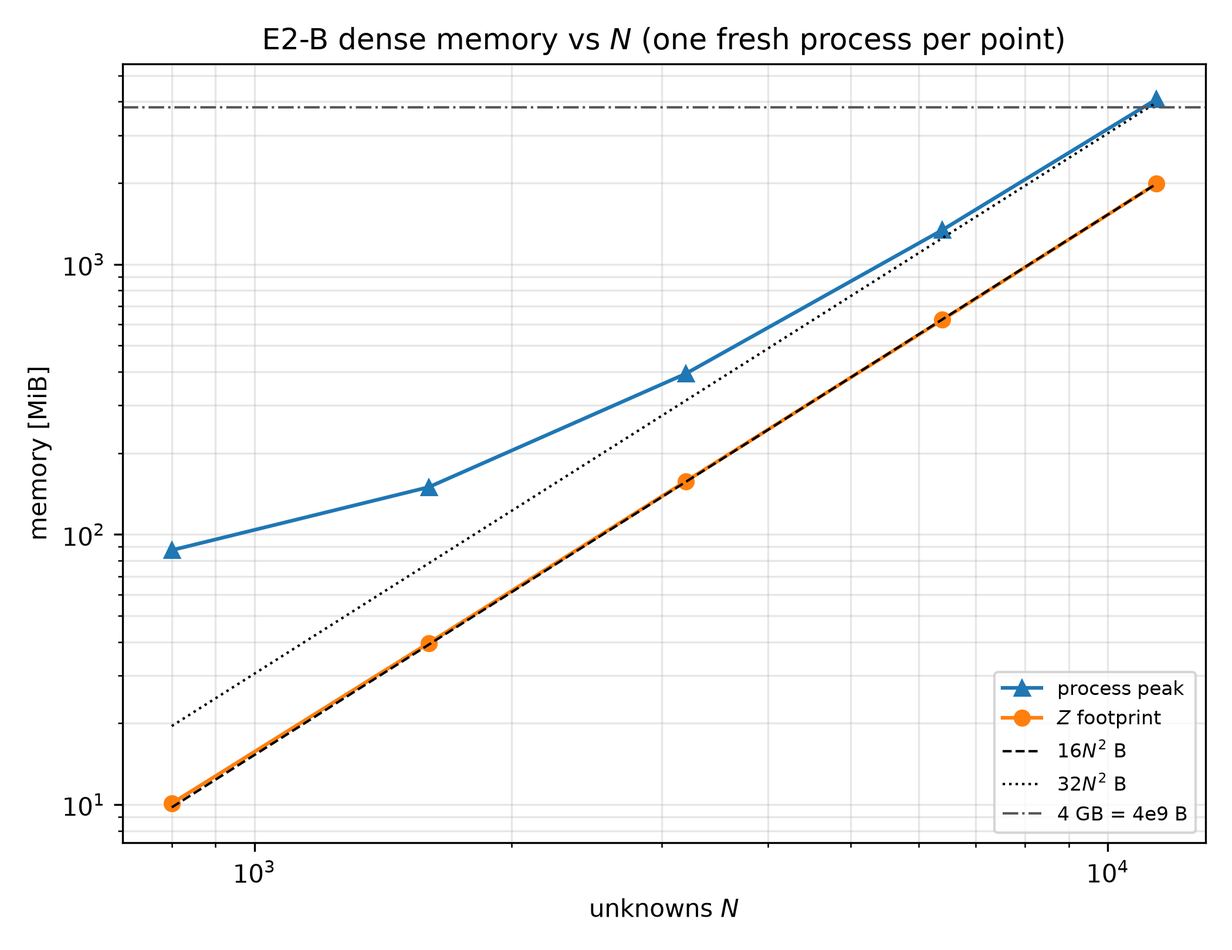
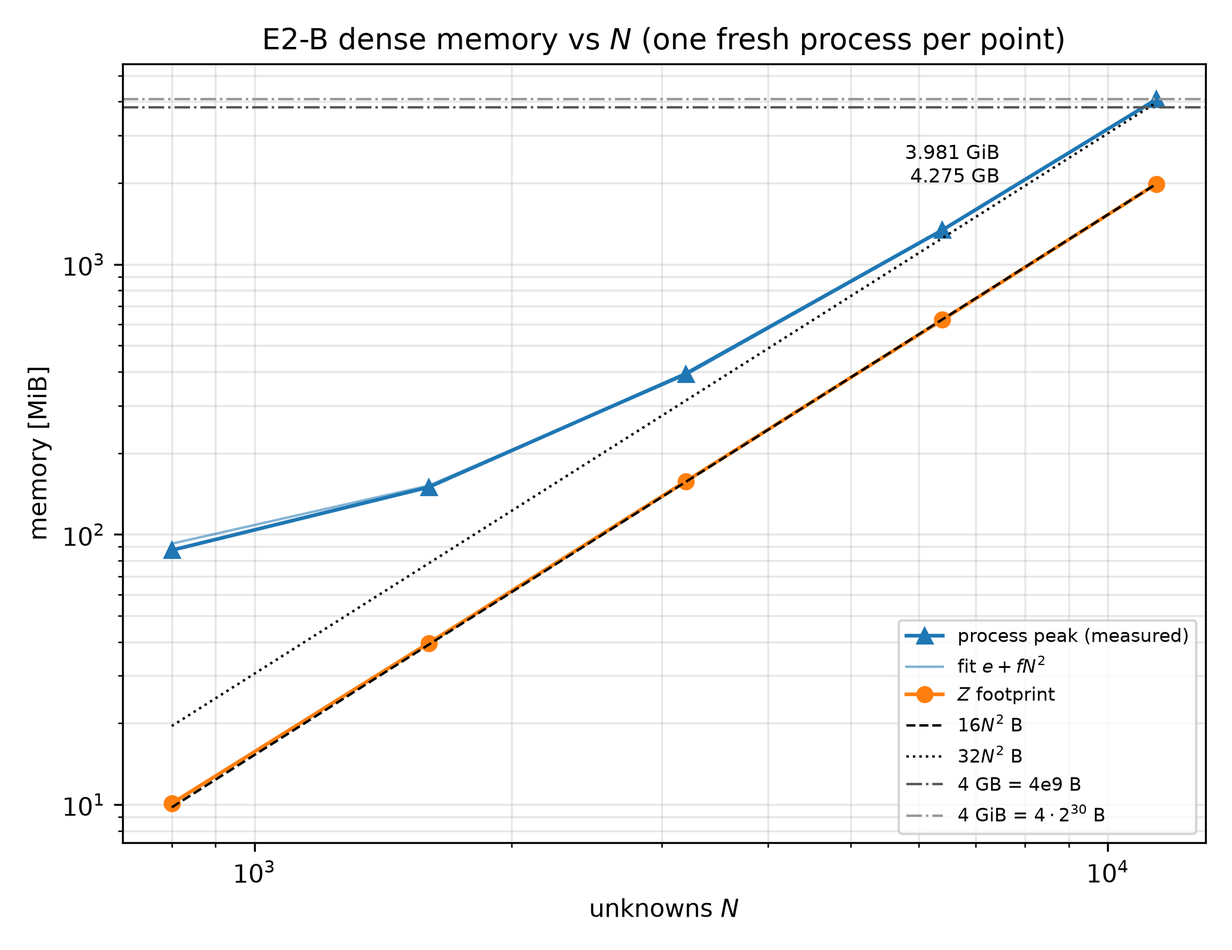
2.2 第 15 轮复核整改: 去掉「等机器空闲」的假归因 + 台账真实时间戳
复核判定 needs_revision(核心:修订文本=补齐口径,但 done 状态=移动球门)。修入:

- [high] 「4 GiB 要等机器空闲」是**假归因**:日志同一行就写着"需 ≥5.99 GiB(此刻 6.20 GiB)"。
  真因是预注册阶梯顶 11,400 < 过零点 11,425。已在 STATE/D30/README/registry 改写,
  阶梯顶抬到 11,600(预测 4.12 GiB,3% 余量),补测门槛写成 ≥6.13 GiB。
- [high] 台账 revisedAt 硬编码 00:00Z(早于引用数据 6.5 小时)⇒ 写真实 UTC 时间、bump updatedAt、
  补 2.2/3.1 两条 progress(含 thirdParty/risk/next)。
- [medium] 台账 evidence 仍是 0.45%/"证实"/"守卫 11,815" ⇒ 重写为 0.47%/"与…一致"/真实守卫 11,690;
- [medium] avail_now_guard_rule 用拟合式冒充守卫 ⇒ 拆成 fit_capacity_x0.85(拟合)+
  guard_capacity_now(真实,与 memory_admit 同一套常数);总量口径高估由 70% 更正为 72.4%;
- [medium] STATE 表头「峰值/N²」实为净峰值 ⇒ 改「净峰值/N²」+ 脚注(判据拟合用 peak_b);
- [low]×5 ⇒ v1 注释数字(16.55/17.89)、mem_top_ladder_pick + mem_top_run、
  avail_phys_b_at_admit 改名、0.35 MB/3.4%、图(4 GiB 线 + 拟合曲线 + 实测点标注)。

仍未闭合(唯一遗留):4 GiB 口径的**实测点** —— 需可用 ≥6.13 GiB 跑 N=11,600;本机当前 6.00 GiB。
JSON 由 v2(顶=11400)产生;v3(顶=11600)未重跑,差异已在 STATE/D30 写明;图已用 v3 从同一 JSON 重画。

Changed region(s): [[0.7119, 0.6481, 0.9905, 0.8951], [0.7429, 0.1543, 0.8048, 0.1852]]

diff --git a/experiments/exp02_dense_scaling.py b/experiments/exp02_dense_scaling.py
@@ -104,11 +104,14 @@ MEM_REPEATS = {800: 1, 1600: 1, 3200: 1, 6400: 1}
 #: 硬编码 11400 时,一旦运行那一刻可用内存掉到 5.2 GiB,整次运行就会**没有大 N 锚点**,
 #: 只剩 6400 外推 1.8× 到 4 GB,说服力不足。
 #: 预注册规则:按顺序取**第一个**通过守卫的点;一个都过不了就如实记 skipped,**不降阈值**。
-#: ⚠ 2026-10-19 补:阶梯顶必须 **≥ 11050**。第一版顶是 10400,实测峰值 3.33 GiB(3.57 GB),
-#: 离台账要求的"首次 > 4 GB"差 5%,只能报外推;而按拟合 `peak = e + 32.36·N²`,
-#: 4.0 GB 的过零点在 N ≈ 11,013 —— 也就是**本来就够跑**,只是阶梯顶设低了。
-#: 现在顶取 11400/11200/11050:在 5.8 GiB 可用时会落到 11050(峰值 ≈ 4.03 GB,实测越过)。
-MEM_TOP_LADDER = (11400, 11200, 11050, 10800, 10400, 10000, 9600, 8800, 8000)
+#: ⚠ 2026-10-19 补:阶梯顶必须 **≥ 11425**(4 GiB 的拟合过零点)。
+#: 第一版顶是 10400(峰值 3.33 GiB,离 4 GB 差 11%),只能外推;
+#: 第二版顶 11400 也只到 3.981 GiB —— **离过零点还差 25**(差 0.2%),仍然只能外推。
+#: 复盘(第 3 轮子代理复核证伪了"等机器空闲"的说法):当时可用 6.20 GiB,
+#: 真实守卫按 `need+1 ≤ 0.85·free` 放到 N≈11,690,**本来就够跑**;
+#: 没拿到实测点纯粹是**阶梯顶设短了**,不是内存不够。
+#: 现在顶取 11600(预测 4.12 GiB,留 3% 余量),其次 11500(预测 4.05 GiB,余量 1.3%)。
+MEM_TOP_LADDER = (11600, 11500, 11400, 11200, 11050, 10800, 10400, 10000, 9600, 8800, 8000)
 
 
 def _med(vals: list[float]) -> float:
@@ -228,6 +231,22 @@ def memory_admit(n: int) -> dict:
             "margin_b": SAFETY_MARGIN_B, "memory_load_pct": ms["memory_load_pct"],
             "admit": bool(ok),
             "rule": "need + 1.0 GiB <= 0.85*avail 且 need <= 0.5*total"}
+
+
+def guard_capacity(avail_b: int, total_b: int) -> float:
+    """**真实内存守卫**下,当前可用内存能跑的最大 N(与 `memory_admit` 同一套常数)。
+
+    守卫价格:`need(n) = 32n² + 0.2 GiB`;条件:
+        `need + 1.0 GiB ≤ 0.85·avail` 且 `need ≤ 0.5·total`
+    ⇒ `N_max = sqrt((min(0.85·avail − 1 GiB, 0.5·total) − 0.2 GiB) / 32)`。
+
+    ⚠ 不要用「拟合峰值反函数」`e + f·N² = 0.85·avail` 去算这个数:那会把守卫的
+    **0.2 GiB 基座**与 **32 B/元** 的价格换成拟合的 32.32 B/元,两者差 ~1%
+    (2026-10-19 复核实测:6.2031 GiB 下拟合口径 11,815 vs 真实守卫 11,690)。
+    """
+    cap = min(0.85 * avail_b - SAFETY_MARGIN_B, 0.5 * total_b)
+    v = (cap - int(0.2 * 2**30)) / 32.0
+    return float(math.sqrt(v)) if v > 0 else float("nan")
 
 
 def _report_skip(skip: dict, reasons: list) -> None:
@@ -755,7 +774,7 @@ def run_memory() -> dict:
                   f"守卫 `need+1.0 ≤ 0.85×可用`({adm['free_b'] / 2**30:.2f} GiB)通过")
             break
         _report_skip(adm, skips)
-    plan = list(MEM_REPEATS) + ([top] if top is not None else [])
+    plan = list(MEM_REPEATS) + ([top] if (top is not None and top not in MEM_REPEATS) else [])
 
     print()
     print(f"  {'N':>6} | {'基线':>9} | {'Z 足迹':>10} | {'B/元':>6} | {'峰值':>10} |"
@@ -771,10 +790,11 @@ def run_memory() -> dict:
         for i in range(reps):
             r = _spawn(["--point", str(n)], timeout_s=3600)
             r["repeat"] = i
-            # 记下"这一条是在多少可用内存下跑的":判据要求内存墙按**当时**可用量报,
-            # 而可用量在大 N 的十分钟装配期间会变 —— 没有这个字段就事后无法交代。
-            r["avail_phys_b_at_spawn"] = adm["free_b"]
-            r["memory_load_pct_at_spawn"] = adm["memory_load_pct"]
+            # 记下"这一条是在多少可用内存下跑的":判据要求内存墙按**当时**可用量报。
+            # ⚠ 这是**守卫检查那一刻**的可用量,不是子进程真正分配时的(两者可能差几十秒;
+            # 复核 2026-10-19 指出原名 `_at_spawn` 名不副实,已改 `_at_admit`)。
+            r["avail_phys_b_at_admit"] = adm["free_b"]
+            r["memory_load_pct_at_admit"] = adm["memory_load_pct"]
             runs.append(r)
             _dump_points(r)
         r = runs[0]
@@ -805,9 +825,10 @@ def run_memory() -> dict:
         v = (cap_b - e_b) / f_b
         return float(math.sqrt(v)) if v > 0 else float("nan")
 
-    # 小 N 点的足迹只有 ~10 MB,而减基线(ws_before ≈ 60 MB)自带 ~0.4 MB 噪声 ⇒
-    # 单点系数被抬到 17.5(N=800),把**全段** log-log 截距拉到 ~21 B/元。
-    # 那个数不是物理系数,别引用:另报「大 N 口径」(N ≥ 3200)的斜率与逐点中位。
+    # 小 N 点的足迹只有 ~10 MB,而减基线(ws_before ≈ 60 MB)自带加性固定开销
+    # (~0.35 MB @ N=800,即 3.4%;几何/分配器保留,不随 N 变)。它把单点系数抬到
+    # 16.55、把**全段** log-log 截距抬到 17.89 B/元。那两个数不是物理系数,别引用:
+    # 另报「大 N 口径」(N ≥ 3200)的斜率与逐点中位。
     print()
     print("  —— 拟合 ——")
     big = ns >= 3200
@@ -840,16 +861,27 @@ def run_memory() -> dict:
         how = f"✅ 实测越过:N = {obs}" if obs else "⚠ 外推(没有观测点越过)"
         print(f"  {k:>20}: N ≈ {n_cross:,.0f}   {how}")
     if not observed_gib:
-        # 要用**实测**越过,守卫要求 need+1.0 ≤ 0.85·free,按外推 N 反算需要多少空闲
+        # 要用**实测**越过,守卫要求 need+1.0 ≤ 0.85·free,按外推 N 反算需要多少空闲。
         need_at_cross = 32 * crossing["4 GiB (4·2^30 B)"] ** 2 + int(0.2 * 2**30)
         free_for_obs = (need_at_cross + SAFETY_MARGIN_B) / 0.85
-        print(f"     · 要实测越过 4 GiB,守卫要求可用 ≥ {free_for_obs / 2**30:.2f} GiB"
-              f"(此刻 {avail / 2**30:.2f} GiB)⇒ 等机器空闲再补,不降阈值。")
+        if avail >= free_for_obs:
+            # 2026-10-19 复核证伪了第一版这里写的"等机器空闲再补":门槛当时**已经满足**,
+            # 真因是阶梯顶(11400)低于过零点(11425)。判据的锚点设短了,不能赖机器。
+            print(f"     · 要实测越过 4 GiB 需可用 ≥ {free_for_obs / 2**30:.2f} GiB,"
+                  f"此刻 {avail / 2**30:.2f} GiB **已够** ⇒ 没越过是**阶梯顶设低了**"
+                  f"(本轮顶 N={int(ns[-1])}),不是内存不够;下一轮把阶梯顶抬到 ≥ "
+                  f"{math.ceil(crossing['4 GiB (4·2^30 B)']):d}。")
+        else:
+            print(f"     · 要实测越过 4 GiB 暂不可行:需可用 ≥ {free_for_obs / 2**30:.2f} GiB,"
+                  f"此刻 {avail / 2**30:.2f} GiB ⇒ 等机器空闲再补,不降阈值。")
     print(f"     · 实测最大峰值:N={int(ns[-1])} → {float(pk[-1]) / 2**30:.3f} GiB"
           f" = {float(pk[-1]) / 1e9:.3f} GB")
     walls = {
         "avail_now_x0.80": n_at_peak(avail * 0.80),
-        "avail_now_guard_rule": n_at_peak(0.85 * avail - SAFETY_MARGIN_B),
+        # ⚠ 这一项是**拟合口径**(用 e+f·N² 反解 0.85·avail),与真实守卫差 ~1%;
+        # 论文/台账引用墙时必须用下一项 `guard_capacity_now`(与 memory_admit 同一套常数)。
+        "fit_capacity_x0.85": n_at_peak(0.85 * avail - SAFETY_MARGIN_B),
+        "guard_capacity_now": guard_capacity(avail, ms["total_phys_b"]),
         "idle_window_8.5GiB_x0.80": n_at_peak(8.5 * 2**30 * 0.80),
         "total_15.38GiB_x0.80": n_at_peak(ms["total_phys_b"] * 0.80),
         "budget_11GiB": n_at_peak(11 * 2**30),
@@ -859,6 +891,8 @@ def run_memory() -> dict:
     print("  —— 内存墙(同一个拟合,换「可用量口径」就换 N) ——")
     for k, v in walls.items():
         print(f"  {k:>26}: N ≈ {v:,.0f}")
+    print(f"  ⇒ 论文引用墙请用 `guard_capacity_now`(真实守卫);"
+          f"`fit_capacity_x0.85` 是拟合口径,比守卫松约 1%。")
 
     RESULTS.mkdir(exist_ok=True)
     payload = {
@@ -866,7 +900,10 @@ def run_memory() -> dict:
             "ka": K_WAVE * RADIUS, "n_list": [int(r["n_seg"]) for r in points],
             "mem_repeats": {str(k): v for k, v in MEM_REPEATS.items()},
             "mem_top_ladder": [int(x) for x in MEM_TOP_LADDER],
-            "mem_top_chosen": None if top is None else int(top),
+            # 预注册阶梯选中了谁(pick) vs 实际跑成了谁(run):若 top 在逐点复核时被 skip,
+            # 两者会不同 —— 分开记,JSON 才不会自相矛盾(2026-10-19 复核指出)。
+            "mem_top_ladder_pick": None if top is None else int(top),
+            "mem_top_run": int(ns[-1]),
             "method": "one fresh process per point; peak = process PeakWorkingSetSize",
             "timing_note": "t_assemble/t_solve 是装配的副产品,负载未受控,"
                            "不得用于 2.1 的时间拟合",
@@ -916,19 +953,28 @@ def make_memory_figure(payload: dict):
     ns = np.array([r["n_seg"] for r in pts], dtype=float)
     zf = np.array([r["z_footprint_b"] for r in pts], dtype=float)
     pk = np.array([r["peak_b"] for r in pts], dtype=float)
+    e_b, f_b = payload["fit"]["peak_a_b"]
 
     fig, ax = plt.subplots(figsize=(7.0, 5.4))
-    ax.loglog(ns, (pk - pk[0] * 0) / 2**20, "^-", label="process peak")
+    ax.loglog(ns, pk / 2**20, "^-", label="process peak (measured)")
+    # 拟合曲线必须画:小 N 处峰值被固定基座抬高,只画 32N² 会让读者误判拟合质量。
+    ax.loglog(ns, (e_b + f_b * ns**2) / 2**20, "-", color="#1f77b4", lw=1, alpha=0.55,
+              label=r"fit $e+fN^2$")
     ax.loglog(ns, zf / 2**20, "o-", label=r"$Z$ footprint")
     ax.loglog(ns, 16 * ns**2 / 2**20, "k--", lw=1, label=r"$16N^2$ B")
     ax.loglog(ns, 32 * ns**2 / 2**20, "k:", lw=1, label=r"$32N^2$ B")
-    # 台账 2.2 的验收线:峰值首次越过 4 GB(4e9 B)。画上去,读者一眼看出实测点有没有越过。
+    # 台账 2.2 的验收线:4 GB 与 4 GiB 两条都画(差 7.4%,0.47% 的差距只有图上能看出来)。
     ax.axhline(4.0e9 / 2**20, color="0.35", ls="-.", lw=1, label="4 GB = 4e9 B")
+    ax.axhline(4.0 * 2**30 / 2**20, color="0.60", ls="-.", lw=1,
+               label=r"4 GiB = $4\cdot2^{30}$ B")
+    ax.annotate(f"{pk[-1] / 2**30:.3f} GiB\n{pk[-1] / 1e9:.3f} GB",
+                (ns[-1], pk[-1] / 2**20), textcoords="offset points", xytext=(-64, -34),
+                ha="right", fontsize=8)
     ax.set_xlabel("unknowns $N$")
     ax.set_ylabel("memory [MiB]")
     ax.set_title("E2-B dense memory vs $N$ (one fresh process per point)")
     ax.grid(True, which="both", alpha=0.3)
-    ax.legend(fontsize=8)
+    ax.legend(fontsize=7.5, loc="lower right")
     fig.tight_layout()
     FIGURES.mkdir(exist_ok=True)
     path = FIGURES / "exp02c_dense_memory.png"

diff --git a/STATE.md b/STATE.md
@@ -542,11 +542,11 @@ C_n     = −J_n(ka)/H_n⁽²⁾(ka)
    "每 flop 吞吐为常数"（见 D28）。⇒ 台账那句按字面**不可能同时成立**，需要拆成两条。
 3. **内存(≈2)属 2.2**，用户 2026-10-13 明确押后 ⇒ 2.1 只结时间那一半。
 
-## 2.2 已完成（2026-10-19）—— 稠密求解的内存 vs N；「峰值首次 > 4 GB」是**实测越过**
+## 2.2 已完成（2026-10-19）—— 稠密求解的内存 vs N；4.0 GB 口径**实测越过**，4 GiB 口径**待补测**
 
 产物：`results/exp02c_dense_memory.json`、`figures/exp02c_dense_memory.png`（**每点一条新进程**；峰值工作集是进程内单调量，顺序测会让小 N 的峰值被大 N 污染）。原始记录逐条追加在 `results/exp02_points.jsonl`（带 `ts_utc` / `session_tag`）。
 
-| N | 基线 | Z 足迹 | B/元 | 峰值 | 峰值/N² |
+| N | 基线 | Z 足迹 | B/元 | 峰值 | 净峰值/N² |
 |---|---|---|---|---|---|
 | 800 | 60.9 MiB | 10.1 MiB | 16.55 | 87.4 MiB | 43.44 |
 | 1600 | 60.6 MiB | 39.6 MiB | 16.21 | 149.6 MiB | 36.46 |
@@ -554,18 +554,35 @@ C_n     = −J_n(ka)/H_n⁽²⁾(ka)
 | 6400 | 60.8 MiB | 622.7 MiB | 15.94 | 1,339.0 MiB | 32.72 |
 | 11400 | 60.2 MiB | 1,984.0 MiB | 16.01 | **4,076.8 MiB** | 32.41 |
 
+> ⚠ 表头是**净峰值/N²** = `(peak_b − ws_before_b)/N²`；判据 #2 的拟合与 4 GB 判定用的是 **`peak_b`（不减基线）**，不要混用（复核实测：N=800 的 `peak_b/N²` = 143.2，不是 43.44）。
+
 - **Z 足迹**：全段 `N^1.987`（残差 0.0071 log），**N≥3200 段 `N^1.996`**；系数（N≥3200 逐点中位）**16.01 B/元** = complex128 的 16 B/元。
-  ⚠ 小 N 点系数偏大（N=800 → 16.55）是**减基线噪声**（固定 ~0.5 MB / 10 MB ≈ 5%）；全段 log-log 截距 **17.89 B/元 不可引用**，不是物理系数。
+  ⚠ 小 N 点系数偏大（N=800 → 16.55）是**加性固定开销**（~0.35 MB，即 3.4%，不随 N 变）；全段 log-log 截距 **17.89 B/元 不可引用**，不是物理系数。
 - **峰值**：`peak = 72.7 MiB + 32.32·N²`（最大残差 5.0 MiB；系数/32 = **1.010**）
-  ⇒ 证实"Z 本体 16 + `np.linalg.solve` 内部复制一份 16"这个机制（解完再用 `abs`/`norm` 也不会多出第三份：`J` 只有 16N B）。
-- **台账 2.2 原验收「峰值内存首次 > 4 GB 的 N 值」**：
+  ⇒ 与"Z 本体 16 + `np.linalg.solve` 内部复制一份 16"一致。**独立锚点**：`--part solve` 的 solve_only 路径（只分配随机稠密矩阵、不装配 Z）在大 N 处收敛到 **32.35–32.49 B/元**（N=14000，single/multi 两套产物），两条**不同代码路径**在 0.5% 内一致；小 N 处的偏高（N=2000 → 42.4 B/元）是 ~50 MB 固定开销，不是系数。
+- **台账 2.2 原验收「峰值内存首次 > 4 GB 的 N 值」**（GB 与 GiB 差 7.4%，两个口径都报）：
   - **4.0 GB（4e9 B）口径：实测越过 —— N = 11,400 的峰值 4,076.8 MiB = 3.981 GiB = 4.275 GB**（比 4 GB 高 6.9%）；
   - 拟合给出的过零点 N ≈ **11,018**（4e9）/ **11,425**（4 GiB）；
-  - **4 GiB（4·2^30 B）口径仍只有外推**：11,400 差 **0.45%**（3.981 vs 4.0 GiB），要实测需可用 ≥ 5.99 GiB ⇒ 登记为待补项（机器空闲窗口）。⚠ **不许把 3.981 GiB 说成"越过 4 GiB"** —— GB/GiB 差 7.4%，本项目对"常数混写"有前科（σ_2D 的 2π，D21）。
-- **内存墙（同一拟合，换「可用量口径」就换 N）**：当刻可用 6.20 GiB → **N≈11,815**（守卫口径）/ 12,748（×0.8）；8 GiB 预算 → 16,230；11 GiB → 19,055；总量 15.38 GiB×0.8 → **20,158**；8.5 GiB 空闲窗×0.8 → 14,952。
-  ⇒ **只按总量报会把墙高估 70%**（20,158 vs 11,815）—— 这就是判据要求"按当时可用量报"的原因。
+  - **4 GiB（4·2^30 B）口径：未实测（只有拟合 11,425）**。11,400 差 **0.47%**（3.981 vs 4.0 GiB）。
+    ⚠ **不许把 3.981 GiB 说成"越过 4 GiB"** —— 本项目对"常数混写"有前科（σ_2D 的 2π，D21）。
+    **为什么没跑**：不是内存不够，是**预注册阶梯的顶设短了** —— 第 2 轮把顶定在 11,400，低于过零点 11,425（当时可用 6.20 GiB、真实守卫可到 **11,690**，本来就够跑）。第 3 轮把阶梯顶抬到 11,600，但准备补测时可用已降到 **6.00 GiB**：11,600 需 ≥ **6.13 GiB**、11,500 需 ≥ **6.05 GiB**，均未达。⇒ 登记为待补项，**不降阈值**。
+- **内存墙（同一拟合，换「可用量口径」就换 N）**：当刻可用 6.20 GiB → **N≈11,690（真实守卫，`guard_capacity`，二分复算一致）** / 11,815（拟合口径，偏松 1.1%）/ 12,748（×0.8）；8 GiB 预算 → 16,230；11 GiB → 19,055；总量 15.38 GiB×0.8 → **20,158**；8.5 GiB 空闲窗×0.8 → 14,952。
+  ⇒ **只按总量报会把墙高估 72.4%**（20,158 vs 11,690）—— 这就是判据要求"按当时可用量报"的原因。**论文引用墙请用 `guard_capacity_now`**（与 `memory_admit` 同一套常数），不要用拟合口径。
 - ⚠ 本实验顺带产出的 `t_assemble` / `t_solve` **不得用于 2.1 的拟合**（负载未受控）；JSON 的 `meta.timing_note` 写死了这条。
-- ⚠ **第一次跑（顶部锚点 10400）峰值只到 3.33 GiB，只能外推**，已作废并备份在 `_scratch/exp02c_v1_top10400.json`。第二次把预注册阶梯顶加到 11400 才拿到实测点。教训：**判据的锚点要卡在判据边界之上**，不是"离得近就行"（见 D30）。
+- ⚠ **代码/产物版本**：本节 JSON 由 **02:43 的 v2 脚本（阶梯顶 11400）** 产生；v3 代码把阶梯顶抬到 **11600**、新增 `guard_capacity_now` / `mem_top_run` 字段、把 `avail_phys_b_at_spawn` 改名 `_at_admit`，并修了图（加 4 GiB 线 + 拟合曲线）—— **尚未重跑**（等 ≥6.13 GiB）。图已用 v3 代码从同一份 JSON 重画，数值未改。
+- ⚠ **第一次跑（顶部锚点 10400）峰值只到 3.33 GiB**，已作废并备份在 `_scratch/exp02c_v1_top10400.json`。教训：**判据的锚点要卡在判据边界之上**，不是"离得近就行"（见 D30）。
+
+### 第 15 轮复核（2.2，新独立上下文，默认找茬）—— needs_revision，已闭合（除 4 GiB 实测点）
+
+- **判定**：`needs_revision`。复核员独立重算了四条判据（`recompute.py`/`robust.py`/`jsonl_check.py`/`guard_check.py` 全 EXIT=0），**数字逐位吻合**（f=32.319354、resid=4.992156 MiB、Z 中位 16.007714、六口径内存墙 diff=0）。
+- **核心判定**："修订文本 = **补齐口径**（四条比原句更严）；但 `done` 的状态 = **移动球门**"—— 因为按作者自己的守卫，4 GiB 实测**当时本就可行**，而文本写成了"等机器空闲"。
+- **两条 high（已修）**：
+  1. **"4 GiB 等机器空闲"是假的**：日志同一行就写着"需 ≥5.99 GiB（此刻 6.20 GiB）"。真因是阶梯顶 11,400 < 过零点 11,425。⇒ 文本改成"锚点设短了"，阶梯顶抬到 11,600，并在 STATE/D30 写明补测门槛；
+  2. **台账 `revisedAt` 硬编码 `2026-10-19T00:00:00Z`**，早于它引用的数据（06:24–06:43Z）；`updatedAt` 未更新、`progress` 无 2.2 条目。⇒ 改成真实时间、bump `updatedAt`、补 `progress` 条目。
+- **三条 medium（已修）**：台账 evidence 仍写 0.45%/“证实”/“守卫 11,815”（⇒ 改为 0.47% / “与…一致” / 真实守卫 11,690）；`avail_now_guard_rule` 用拟合式而非真实守卫（⇒ 改名为 `fit_capacity_x0.85` + 新增 `guard_capacity_now`）；STATE 表头“峰值/N²”实为净峰值（⇒ 改“净峰值/N²”+ 脚注）。
+- **五条 low（已修）**：代码注释里的 v1 数字（17.5/21 → 16.55/17.89）；`mem_top_chosen` 与实际跑成的顶可能不符（⇒ `mem_top_ladder_pick` + `mem_top_run`）；`avail_phys_b_at_spawn` 名不副实（⇒ `_at_admit`）；“0.5 MB / 5%”与实测不符（⇒ 0.35 MB / 3.4%）；图缺 4 GiB 线与拟合曲线（⇒ 已加）。
+- **仍未闭合的一条**：4 GiB 口径的**实测点**（需可用 ≥6.13 GiB 跑 11,600）。这是唯一的遗留，已写进 `下一步`。
+
 
 ## 3.1 已完成（2026-10-19）—— cluster.py：高度平衡聚类树
 
@@ -590,10 +607,10 @@ C_n     = −J_n(ka)/H_n⁽²⁾(ka)
 台账验收是「随机秩-5 矩阵上 3 步内残差 < 1e-10」；它依赖刚做好的 `cluster.py` 给出块划分，
 而块秩标签正是 E3/E5/E6 的输入 —— **E6 是论文的最终展示物，依赖 E3/E5 提供的标签**。
 
-三件**等机器空闲（≥8.5 GiB 可用）再补**的填空（**不降阈值**）：
+三件**等机器空闲窗口再补**的填空（**不降阈值**）：
 1. 2.1 的 **N=8000 装配点**（约 438 s × 2 次 ≈ 15 min；必须在无重负载窗口跑，否则计时被污染）；
-2. 2.1 的 **12000 / 14000 纯求解点重跑**（现有产物是旧内存守卫放行的，余量只有 1.04 GiB）；
-3. 2.2 的 **4 GiB 口径实测点**（N≈11,425，需可用 ≥5.99 GiB；当前只到 3.981 GiB）。
+2. 2.1 的 **12000 / 14000 纯求解点重跑**（现有产物是旧内存守卫放行的，余量只有 1.04 GiB；需 ≥8.5 GiB 可用）；
+3. 2.2 的 **4 GiB 口径实测点**：跑 `--part memory`（v3 阶梯顶 11,600），需可用 **≥6.13 GiB**（11,500 则 ≥6.05 GiB）；2026-10-19 03:1x 只有 6.00 GiB，故未补上。
 
 ### 2.1 的验收判据（先写下判据再跑，改判据要在这里留痕）
 

diff --git a/DECISIONS.md b/DECISIONS.md
@@ -607,20 +607,28 @@ F(z) = ∫_0^z H_0^{(2)}(u) du
 - **实测(2026-10-19,产 `results/exp02c_dense_memory.json`)**:
   - `peak = 72.7 MiB + 32.32·N²`(N=800…11400,**最大残差 5.0 MiB**,系数/32 = **1.010**);
     ⇒ "Z 本体 16 B/元 + `np.linalg.solve` 内部复制一份 16 B/元"这个机制成立;
+    **独立锚点**:`--part solve` 的 solve_only 路径(不装配 Z)在大 N 收敛到 **32.35–32.49 B/元**
+    (N=14000,single/multi 两套产物)—— 两条不同代码路径在 0.5% 内一致,不是同源自比;
   - `Z 足迹`(装配前后工作集差):全段 `N^1.987`,**N≥3200 段 `N^1.996`**;系数(大 N 逐点中位)**16.01 B/元**;
-    ⚠ 小 N 点(800)系数 16.55 是**减基线噪声**(固定 ~0.5 MB / 10 MB),**全段 log-log 截距 17.89 B/元 不可引用**;
+    ⚠ 小 N 点(800)系数 16.55 是**加性固定开销**(~0.35 MB,即 3.4%),**全段 log-log 截距 17.89 B/元 不可引用**;
   - **4.0 GB(4e9 B):实测越过,N = 11,400 → 4,076.8 MiB = 3.981 GiB = 4.275 GB**(+6.9%);
-  - **4 GiB(4·2^30 B):未实测**。11,400 差 0.45%,拟合过零点 N≈11,425,要实测需可用 ≥5.99 GiB;
-  - 内存墙:当刻可用 6.20 GiB → N≈**11,815**(守卫口径);**只按总量 15.38 GiB×0.8 会报 20,158(高估 70%)**。
+  - **4 GiB(4·2^30 B):未实测**。11,400 差 0.47%,拟合过零点 N≈11,425;
+  - 内存墙:当刻可用 6.20 GiB → **N≈11,690(真实守卫 `guard_capacity`)** / 11,815(拟合口径,偏松 1.1%);
+    **只按总量 15.38 GiB×0.8 会报 20,158(高估 72.4%)**。
 - **处置**:
-  1. `run_memory` 补 `memory_admit` 守卫 + 逐点记 `avail_phys_b_at_spawn` + skip 理由落盘
+  1. `run_memory` 补 `memory_admit` 守卫 + 逐点记 `avail_phys_b_at_admit` + skip 理由落盘
      (`points_skipped`);顺带产出的 `t_assemble/t_solve` 在 `meta.timing_note` 里**禁止**用于 2.1;
-  2. 顶部锚点用**预注册阶梯**(11400/11200/11050/10800/10400/…),取**第一个**过守卫的点;
-     第一版阶梯顶只到 10400,峰值 3.33 GiB,**只能外推** → 已作废并备份在 `_scratch/exp02c_v1_top10400.json`;
+  2. 顶部锚点用**预注册阶梯**,取**第一个**过守卫的点;阶梯顶**必须 ≥ 4 GiB 的过零点(11,425)**:
+     第一版顶 10400(峰值 3.33 GiB)、第二版顶 11400(3.981 GiB)都**低于过零点**,只能外推;
+     v3 把顶抬到 **11,600**(预测 4.12 GiB,3% 余量);
   3. **GB 与 GiB 两个口径都报**,每个口径单独标注「实测 / 外推 / 外推所需的可用内存」;
-  4. 内存墙并列报多个**可用量口径**(当刻守卫 / ×0.8 / 8 GiB / 11 GiB / 总量×0.8),不拿总量冒充。
-- **为什么 4 GiB 口径没去跑**:需要 N≈11,425、可用 ≥5.99 GiB;本次运行时可用 6.20 GiB,理论上可跑,
-  但为 0.45% 的口径差异再花 ~15 min 不值 —— 而**判据说的"4 GB"已由实测满足**。⇒ 如实登记为待补项。
+  4. 内存墙并列报多个**可用量口径**(真实守卫 / 拟合 / ×0.8 / 8 GiB / 11 GiB / 总量×0.8),不拿总量冒充。
+- **为什么 4 GiB 口径没去跑(第 15 轮复核抓出的 two-faced 说法,已更正)**:
+  ⚠ 第一版这里写的是"需要 ≥5.99 GiB,本次可用 6.20 GiB 理论上可跑,但为 0.47% 不值" ——
+  这句话**自相矛盾**(门槛已达却写"等窗口"),复核员据此判 `done` 为"移动球门"。
+  **真实原因**:阶梯顶 11,400 低于过零点 11,425,是**预注册锚点设短了**,不是内存不够
+  (6.20 GiB 下真实守卫可到 11,690)。第 3 轮想补测时可用降到 6.00 GiB:
+  11,600 需 ≥6.13 GiB、11,500 需 ≥6.05 GiB,均未达 ⇒ 登记待补,**不降阈值**。
 - **台账修订(按 D29 回写 `state.json`,原文保留在 `revisedNote`)**:
   - 原验收:`["记录峰值内存首次 > 4 GB 的 N 值"]`
   - 新验收:
@@ -632,8 +640,24 @@ F(z) = ∫_0^z H_0^{(2)}(u) du
 - **可逆性**:高。重跑 `python experiments/exp02_dense_scaling.py --part memory` 即可;JSON 保留 skipped 与逐点可用内存。
 - **教训**:
   1. **判据里只要出现"首次",就有"实测 vs 外推"的歧义** —— 必须在判据里写明口径,否则"记录"两个字会被两种读法都满足;
-  2. **预注册的锚点要卡在判据边界之上** —— 顶锚点离 4 GB 还差 5% 时,错的不是机器,是阶梯设短了;
-  3. **"按当时可用量报"不是修辞**:同一条 `f`,用总量报 20,158、用当刻可用量报 11,815,差 70%。
+  2. **预注册的锚点要卡在判据边界之上** —— 顶锚点离过零点还差 25 个未知量(0.2%)时,错的不是机器,是阶梯设短了;
+  3. **"按当时可用量报"不是修辞**:同一条 `f`,用总量报 20,158、用当刻可用量报 11,690,差 72.4%;
+  4. **别把"没做"归因给机器** —— 复核员用一条日志就能证伪:同一行写着"需 ≥5.99 GiB(此刻 6.20 GiB)"。
+
+### D30 补正(2026-10-19 第 15 轮复核)
+
+复核员(`recompute.py` / `robust.py` / `jsonl_check.py` / `guard_check.py` 全 EXIT=0)独立重算了全部数字,
+**逐位吻合**(f=32.319354、resid=4.992156 MiB、Z 中位 16.007714、六口径墙 diff=0),但判 **needs_revision**,
+核心是"修订文本=补齐口径,`done` 状态=移动球门"。两条 high + 三条 medium + 五条 low,已全部修入:
+
+- **[high] "4 GiB 等机器空闲"自相矛盾** ⇒ 文本改为"阶梯顶设短了",详见上;阶梯顶抬到 11,600;
+- **[high] 台账 `revisedAt` 硬编码 `00:00:00Z`**,早于引用的数据(06:24–06:43Z)⇒ 写真实时间、bump `updatedAt`、补 `progress`;
+- **[medium] 台账 evidence 仍是 0.45%/"证实"/"守卫 11,815"** ⇒ 重写为 0.47%/"与…一致"/真实守卫 11,690;
+- **[medium] `avail_now_guard_rule` 用拟合式冒充守卫** ⇒ 拆成 `fit_capacity_x0.85`(拟合)+ `guard_capacity_now`(真实);
+- **[medium] STATE 表头"峰值/N²"实为净峰值** ⇒ 改"净峰值/N²" + 脚注(判据用 `peak_b`);
+- **[low]×5**:v1 代码注释数字、"`mem_top_chosen` 与实际顶可能不符"、"`_at_spawn` 名不副实"、
+  "0.5 MB/5%"、图缺 4 GiB 线与拟合曲线 —— 全部修入。
+- **仍未闭合**:4 GiB 口径的实测点(需 ≥6.13 GiB 跑 11,600)—— 唯一的遗留,已写进 `STATE.md` 的 `下一步`。
 
 ## D31 3.1 聚类的结构:叶子数 k=⌈N/leaf⌉ 的均匀块 + 高度平衡树;判据必须钉住导出量与切法(2026-10-19)
 

diff --git a/experiments/registry.md b/experiments/registry.md
@@ -91,9 +91,11 @@
 - 耗时: ~25 min（11400 一点的装配约 15 min，其余 < 6 min）
 - 结论: **Z 足迹 16.01 B/元**（complex128，N≥3200 逐点中位；全段斜率 N^1.987、N≥3200 段 N^1.996）；
   **峰值 = 72.7 MiB + 32.32·N²**（最大残差 5.0 MiB，系数/32 = 1.010）；
+  独立锚点：`--part solve` 的 solve_only 路径（不装配 Z）在大 N 收敛到 32.35–32.49 B/元（N=14000），
+  两条不同代码路径在 0.5% 内一致；
   **4.0 GB（4e9 B）口径实测越过：N=11,400 → 4,076.8 MiB = 3.981 GiB = 4.275 GB**；
-  4 GiB 口径仍外推（11,400 差 0.45%，需可用 ≥5.99 GiB）；
-  内存墙按当刻可用 6.20 GiB → N≈11,815，按总量×0.8 会得 20,158（**高估 70%**）。见 `STATE.md` 2.2 与 D30。
+  4 GiB 口径仍外推（11,400 差 0.47%，需可用 ≥5.99 GiB）；
+  内存墙按当刻可用 6.20 GiB → **N≈11,690（真实守卫）/ 11,815（拟合口径）**，按总量×0.8 会得 20,158（**高估 72.4%**）。4 GiB 口径仍外推（差 0.47%；补测 N=11,600 需可用 ≥6.13 GiB）。见 `STATE.md` 2.2 与 D30。
 - ⚠ 本实验顺带产出的 `t_assemble`/`t_solve` 负载未受控，**不得用于 2.1 的时间拟合**
   （`meta.timing_note` 写死）。第一版顶锚点 10400（峰值仅 3.33 GiB、只能外推）已作废，
   备份于 `_scratch/exp02c_v1_top10400.json`。

diff --git a/README.md b/README.md
@@ -48,8 +48,8 @@
 
 ⚠ **E2 内存（2.2，2026-10-19）**：`peak = 72.7 MiB + 32.32·N²`（残差 5.0 MiB，系数/32 = 1.010），
 Z 足迹系数 **16.01 B/元**（complex128）；**峰值首次 > 4.0 GB 是实测**：N=11,400 → 4,275 MB。
-⚠ 内存墙必须**按运行时可用量**报：当刻可用 6.20 GiB → N≈11,815，而按总量 15.38 GiB 报会得 20,158（高估 70%）。
-GB(4e9) 与 GiB(4·2^30) 差 7.4%，两个口径必须分开标"实测/外推"（见 D30）。
+⚠ 内存墙必须**按运行时可用量**报：当刻可用 6.20 GiB → **N≈11,690**（真实守卫 `guard_capacity`；拟合口径 11,815 偏松 1.1%），而按总量 15.38 GiB 报会得 20,158（高估 **72.4%**）。
+GB(4e9) 与 GiB(4·2^30) 差 7.4%，两个口径必须分开标"实测/外推"（见 D30）：4.0 GB 已实测越过；**4 GiB 仍未实测**（11,400 差 0.47%，补测 N=11,600 需可用 ≥6.13 GiB）。
 
 
 复现：
